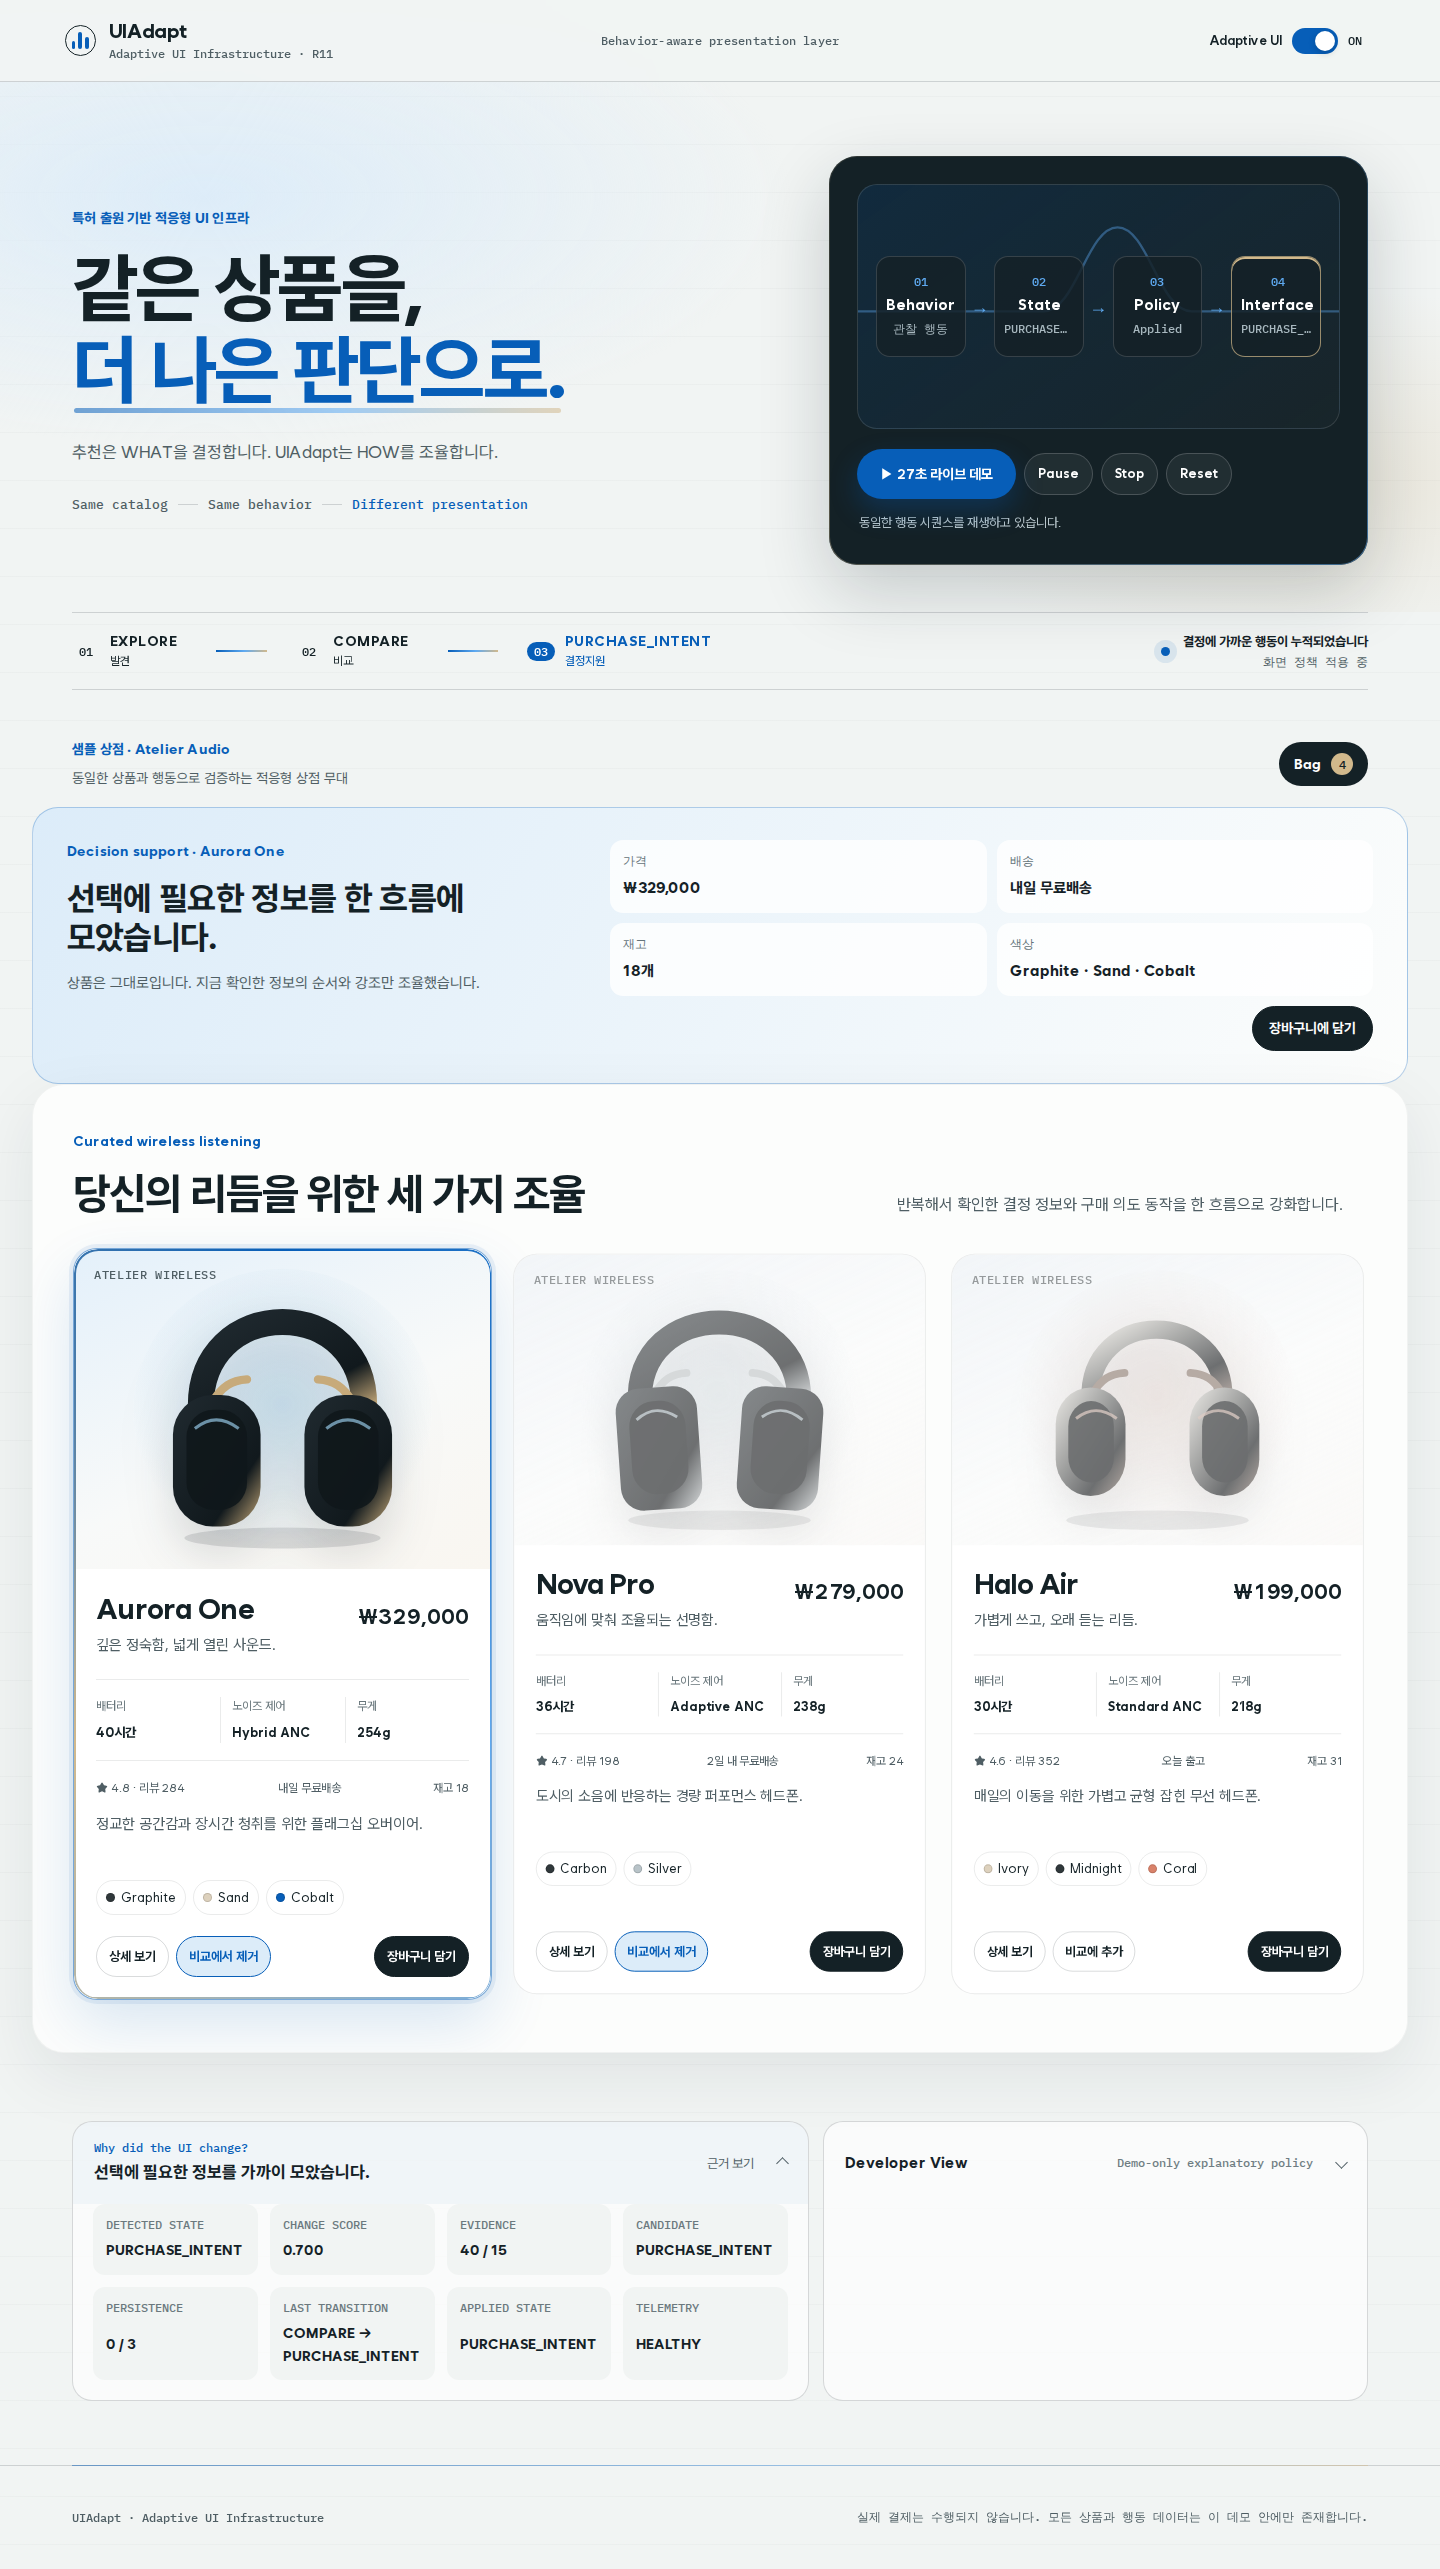
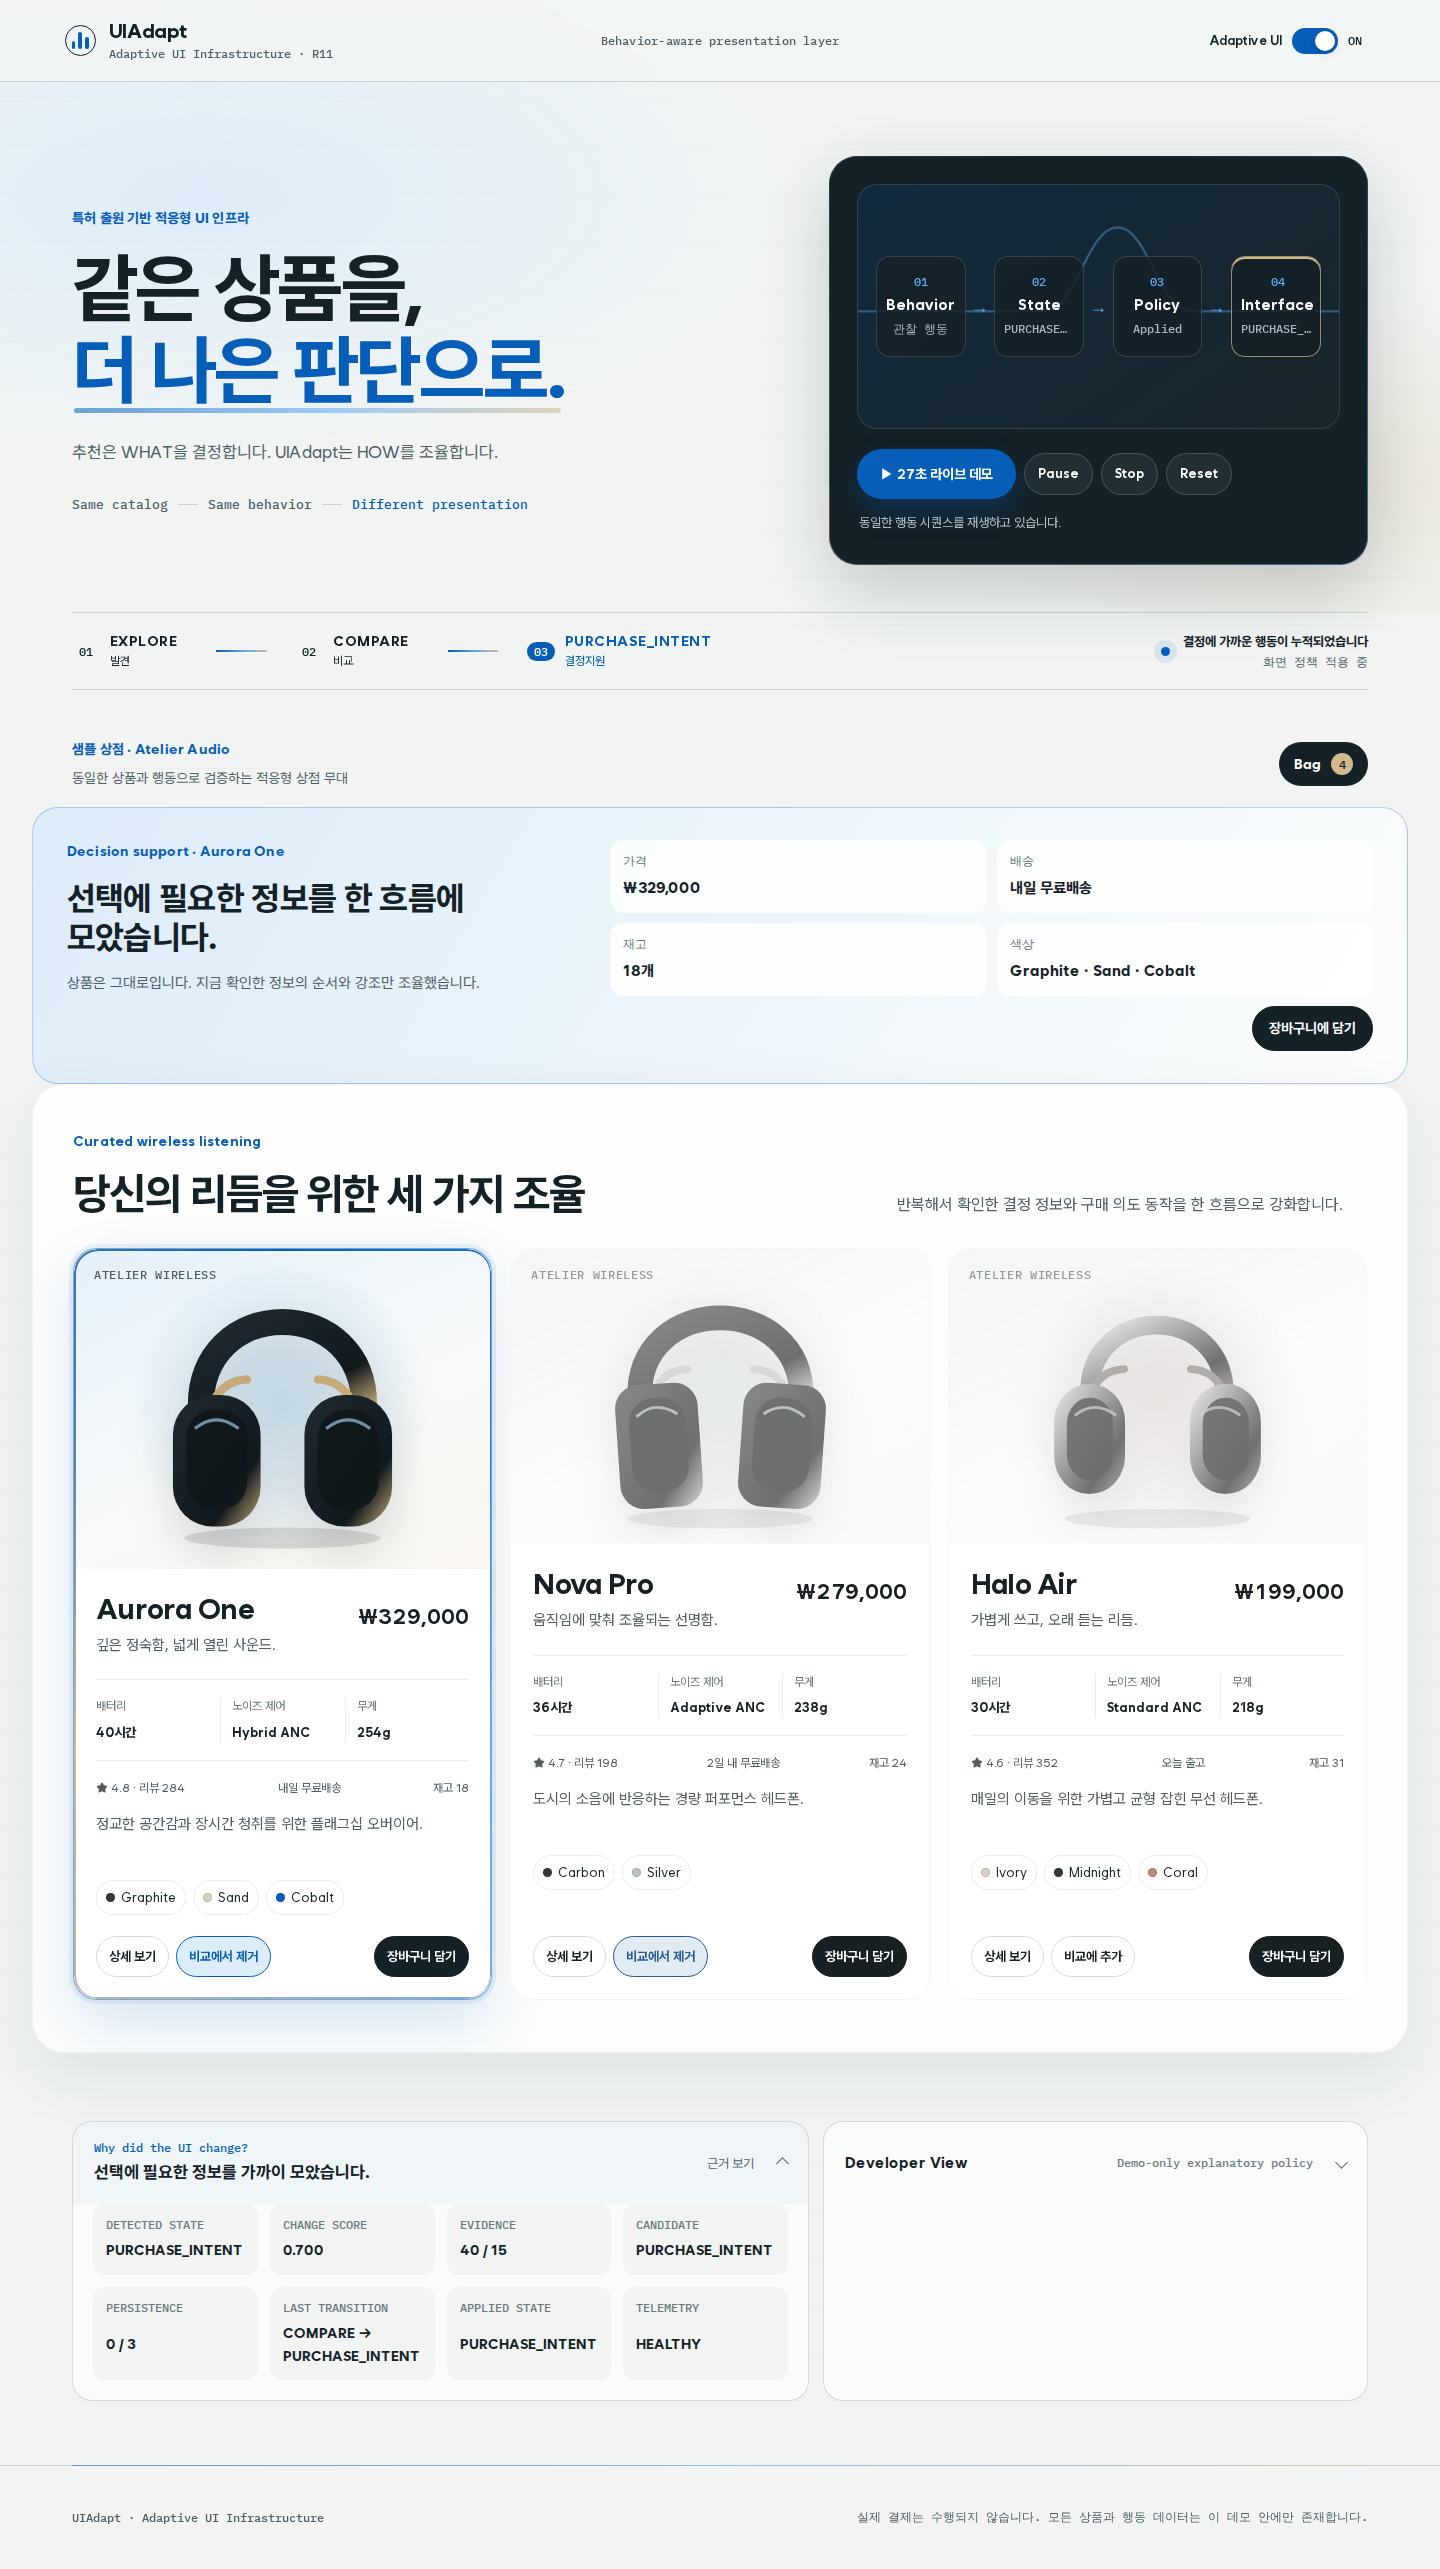
docs(evidence): refresh gate receipts after muted-card geometry fix

diff --git a/evidence/uiadapt-r11-20260825T001718KST/README.md b/evidence/uiadapt-r11-20260825T001718KST/README.md
@@ -1,10 +1,11 @@
 # UIAdapt R11 visual layer — gate receipts
 
-- Branch: claude/uiadapt-r11-visual-polish, base 017c52b, head f583cbe
+- Branch: claude/uiadapt-r11-visual-polish, base 017c52b, head 1cfc1c3
 - Captured: 20260825T001718 KST on nwg (Linux, Node v24.18.0, Playwright 1.62.1, Chromium via @playwright/test)
 - raw/gates-baseline.summary — README gate order on untouched 017c52b: 10/11 PASS; e2e has ONE pre-existing deterministic failure (see gates-baseline-e2e-preexisting-failure.txt)
-- raw/gates-after.summary + gates-after.log — same order on head: 11/11 PASS (vitest 67/67, e2e 82 passed / 2 skipped / 0 failed, audit 0 vulnerabilities)
+- raw/gates-after.summary + gates-after.log — same order on head: 11/11 PASS (vitest 67/67, e2e 83 passed / 4 skipped / 0 failed, audit 0 vulnerabilities)
 - raw/visual-layer-red.log — e2e/visual-layer.spec.ts before the CSS landed (RED); the GREEN full-suite run after the CSS fix is inside raw/gates-after.log (npm run test:e2e section)
 - screenshots/ — Playwright evidence captures (3 viewports × explore/compare/purchase-intent) plus two R11 detail captures
 
 This directory is a handoff, not proof. Independent review by a different session/model is required per repo convention.
+- Task D (1cfc1c3): `.product-card--muted` scale(0.985) replaced by geometry-free de-emphasis; new e2e "equal width at true rest" RED 6.29px → GREEN 0px (see raw/gates-after.log)
